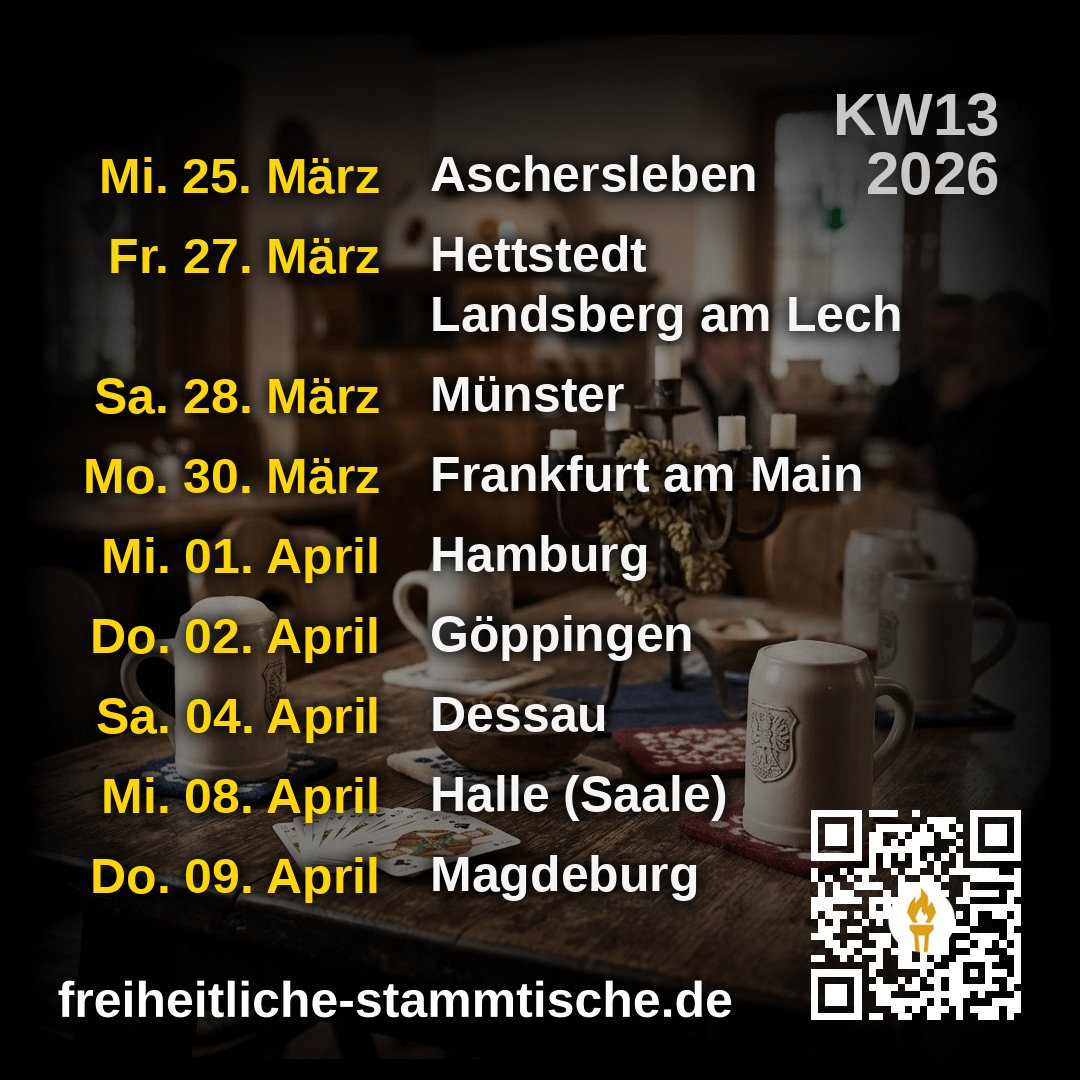
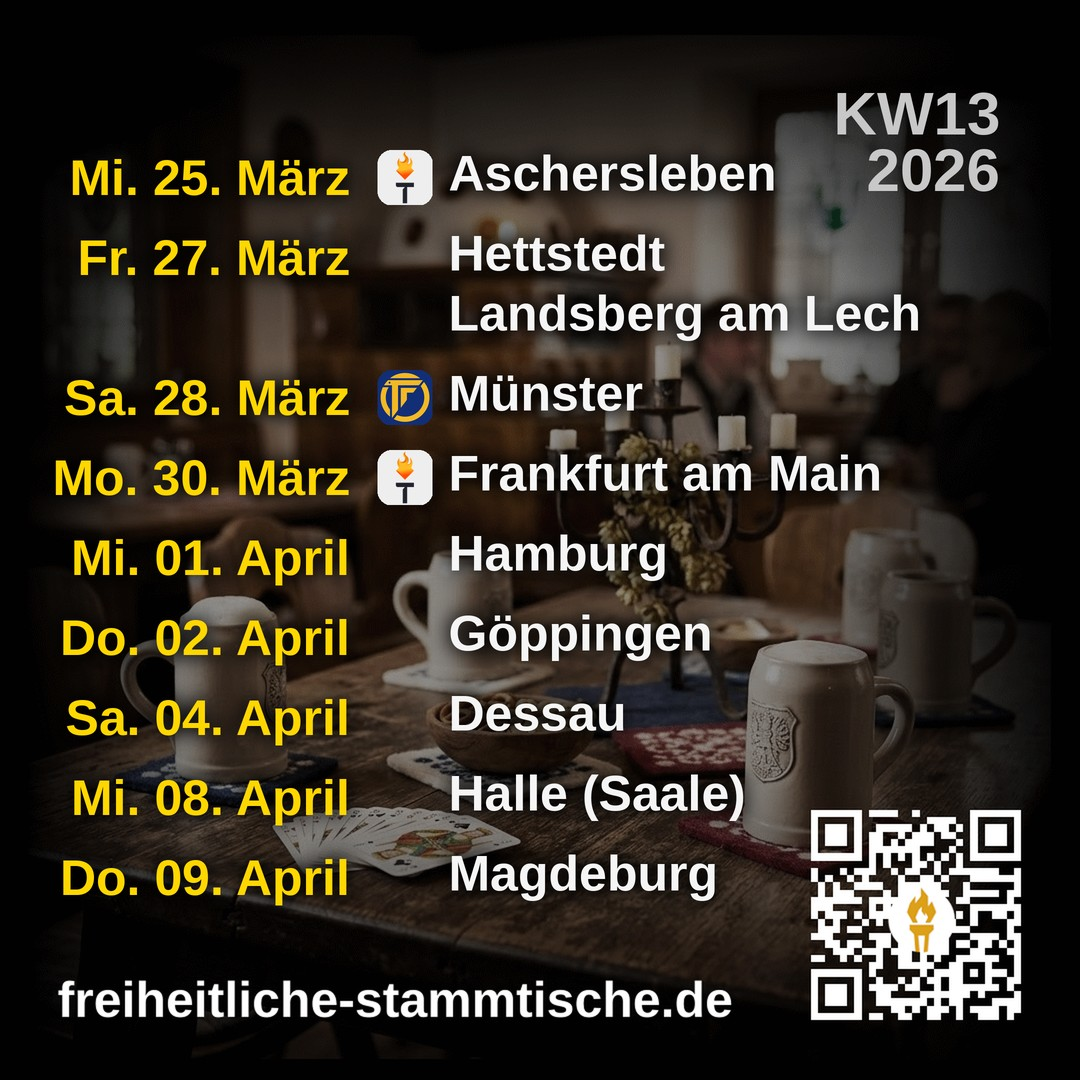
update events from sheet

diff --git a/scripts/generate_social_image.py b/scripts/generate_social_image.py
@@ -103,7 +103,28 @@ MONTH_MAP = {
     "December" : "Dez",
 }
 
+ORGA_BRANDING = {
+    "Unabhängig": ("logo_256.png", "#EEEEEE"),
+    "DIE LIBERTÄREN": ("logo_die-libertaeren.png", "#EEEEEE"),
+    "Hayek Club": ("logo_hayek-club.png", "#EEEEEE"),
+    "Staatenlos": ("logo_staatenlos.png", "#FCC920"),
+    "Free Cities Foundation": ("logo_free-cities.png", "#EEEEEE"),
+    "Bündnis Libertärer": ("logo_blib.png", "#EEEEEE"),
+    "Bündnis Deutschland": ("logo_bd.png", "#EEEEEE"),
+    "Milei Institut": ("logo_milei-institut.png", "#d0d0d0"),
+    "Partei der Vernunft": ("logo_pdv.png", "#EEEEEE"),
+    "Team Freiheit": ("logo_tf.png", "#122E76"),
+}
 
+def get_orga_logo(orga: str) -> tuple[str, str]:
+    if not orga:
+        return "logo_256.png", "#EEEEEE"
+    if orga in ORGA_BRANDING:
+        return ORGA_BRANDING[orga]
+    for key, logo_bg in ORGA_BRANDING.items():
+        if key in orga:
+            return logo_bg
+    return "logo_256.png", "#EEEEEE"
 
 @contextlib.contextmanager
 def images_manifest_ctx() -> dict[str, str]:
